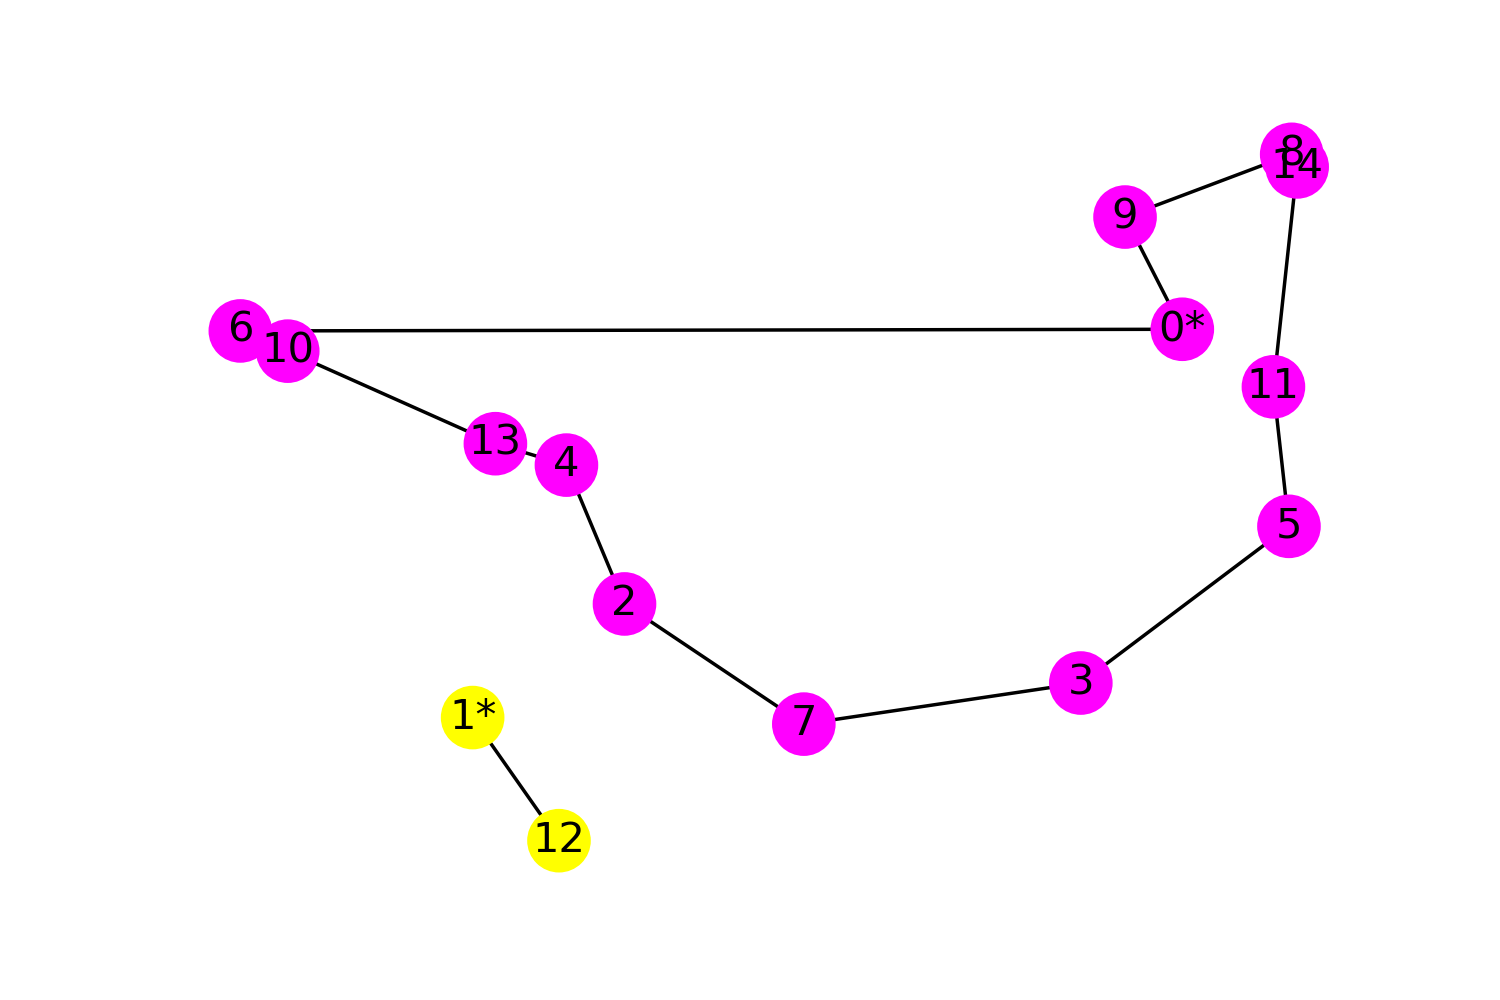
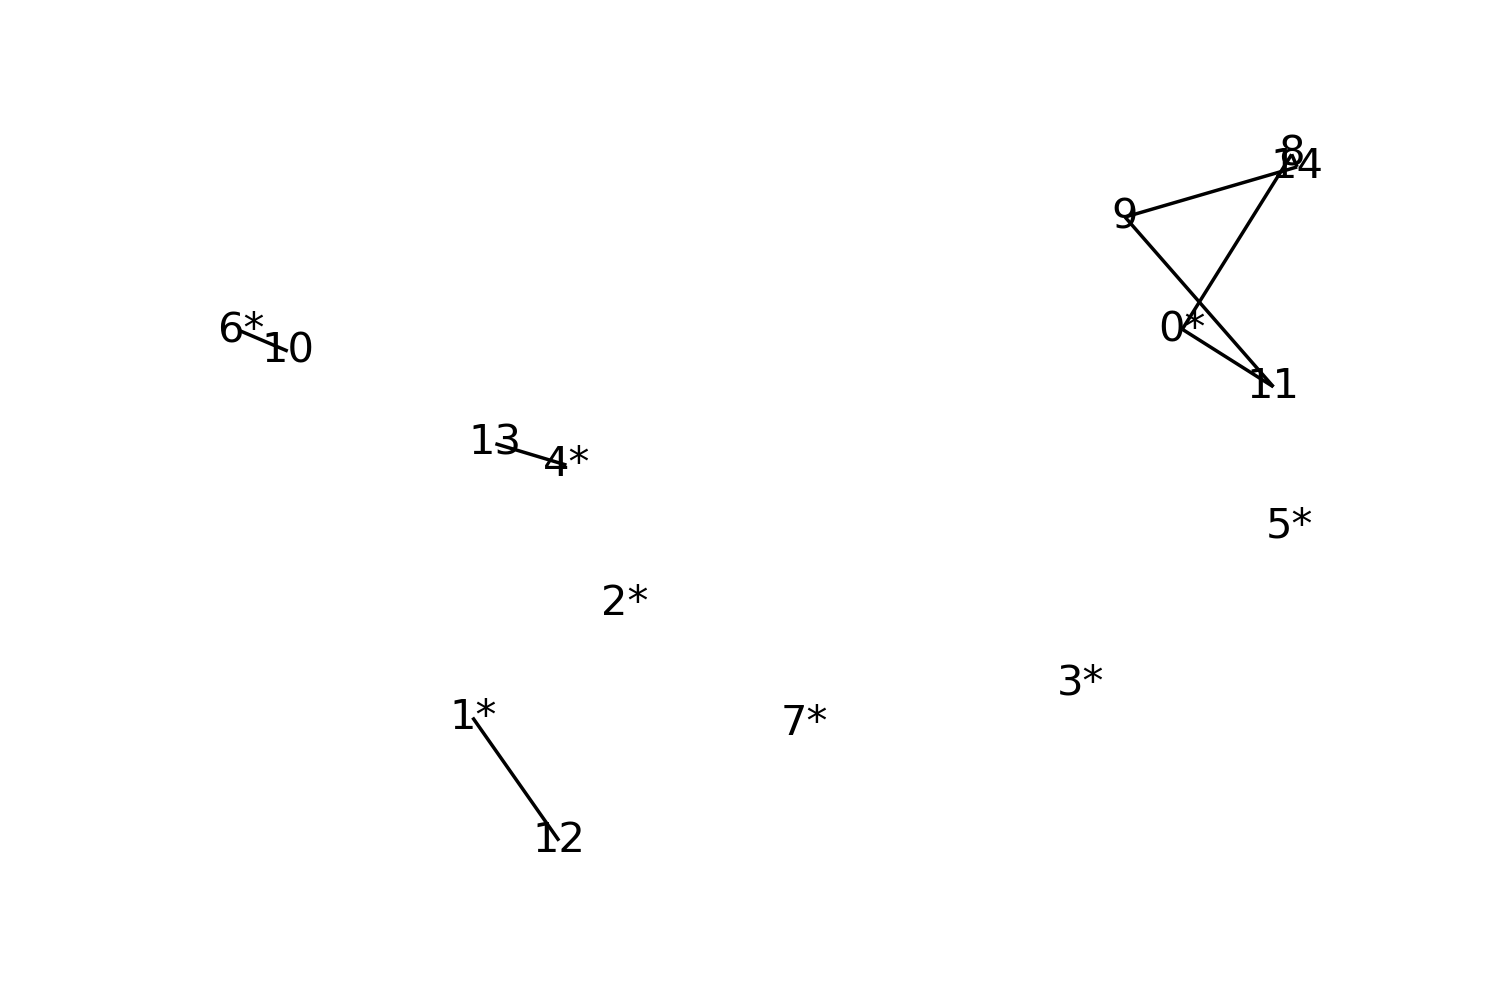
colores solucionados para camiones sin pedidos asignados

diff --git a/vrp.py b/vrp.py
@@ -83,7 +83,7 @@ class VRPInstance(object):
         pos=nx.get_node_attributes(G,'pos')
         nx.draw(G, pos=pos, with_labels = True)
     
-    def plot_solution(self, x, file_name='graph.png'):
+    def plot_solution(self, x, y, file_name='graph.png'):
         """ 
         plot the solution 
 
@@ -94,12 +94,49 @@ class VRPInstance(object):
         G = deepcopy(self.graph)
         G.add_edges_from([(key[0], key[1]) for key in x.keys() if x[key].x == 1]) 
         pos = nx.get_node_attributes(G,'pos')
+        diccionario_camiones = dict([key for key in y.keys() if y[key].x==1])
+        node_color = self.nodes
+        for key in diccionario_camiones.keys():
+            node_color[key] = diccionario_camiones[key]
         
-        # save plot 
+        max_color = np.max(node_color) + 1
+        labels = {nodo:nodo for nodo in self.nodes}
+        origen = self.origin
+        for k in origen.keys():
+            labels[origen[k]] = str(labels[origen[k]])+'*'
+        # save plot
+        if len(node_color) != len(pos):
+            node_color = []
         f = plt.figure()
-        nx.draw(G, pos=pos, with_labels = True, ax=f.add_subplot(111))
-        f.savefig(file_name, dpi = 250)
+        nx.draw(G, pos=pos, labels=labels,
+                node_color = node_color, cmap=plt.cm.spring,
+                with_labels = True, ax=f.add_subplot(111))
+        
+        """
+        for key,var in x.items():
+            print('x',key, var.x)
+    
+        for key,var in y.items():
+            print('y',key, var.x)
+        """
+        values = {}
+        for k in self.trucks:
+            df_x = [key for key in x.keys() if x[key].x == 1]
+            if len(df_x)>0:
+                df_x = pd.DataFrame(df_x, columns=['i','j','k'])
+                df_x = df_x.query(f'k=={k}')
+                values[k] = [df_x.iloc[0][['i','j']].values[0]]
+                index = values[k][-1]
+                counter = 0
+                while counter < df_x.shape[0]-1:
+                    values[k] += [df_x.loc[index][['i','j']].values[1]]
+                    index = values[k][-1]
+                    counter += 1
 
+        for k in self.trucks:
+            print('total nodes served by {0} = {1}'.format(k, len(values[k])))
+        for k in self.trucks:
+            print('node_list = {}'.format(values[k]))
 
 def find_optimal_solution(vrp_instance, objective_function = 'min_distance'):
     nodes = vrp_instance.nodes
@@ -200,32 +237,6 @@ def find_optimal_solution(vrp_instance, objective_function = 'min_distance'):
     model.max_seconds = 25*60 
     model.optimize()
 
-    """
-    for key,var in x.items():
-        print('x',key, var.x)
-
-    for key,var in y.items():
-        print('y',key, var.x)
-    """
-    values = {}
-    for k in trucks:
-        df_x = [key for key in x.keys() if x[key].x == 1]
-        if len(df_x)>0:
-            df_x = pd.DataFrame(df_x, columns=['i','j','k'])
-            df_x = df_x.query(f'k=={k}')
-            values[k] = [df_x.iloc[0][['i','j']].values[0]]
-            index = values[k][-1]
-            counter = 0
-            while counter < df_x.shape[0]-1:
-                values[k] += [df_x.loc[index][['i','j']].values[1]]
-                index = values[k][-1]
-                counter += 1
-
-    for k in trucks:
-        print('total nodes served by {0} = {1}'.format(k, len(values[k])))
-    for k in trucks:
-        print('node_list = {}'.format(values[k]))
-    
     return x
 
 if __name__ == "__main__":
